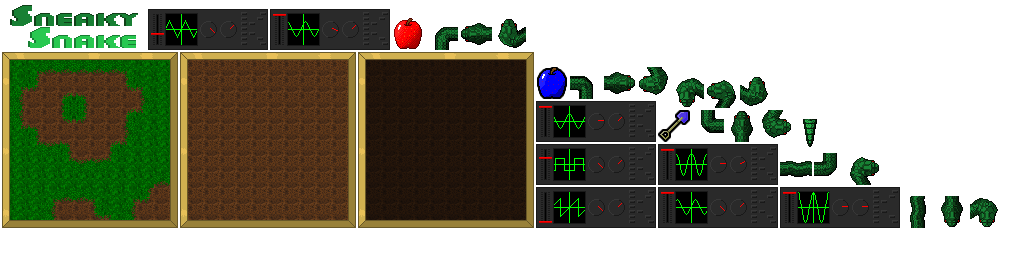
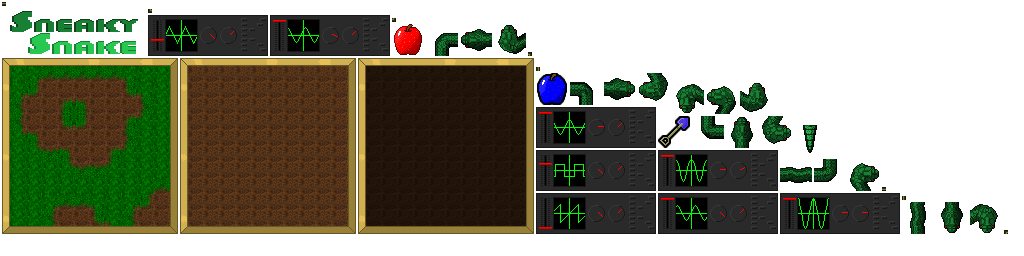
- Added Framing - Made Sky Blue - Changed Button Art - Changed Button Location

Changed region(s): [[0.0, 0.0, 1.0, 0.9375]]

diff --git a/core/src/com/tweekgames/sneakysnake/screens/GameScreen.java b/core/src/com/tweekgames/sneakysnake/screens/GameScreen.java
@@ -51,12 +51,14 @@ public class GameScreen extends AbstractGameScreen {
     private final float DEBUG_REBUILD_INTERVAL = 5.0f;
     private boolean debugEnabled = false;
     private float debugRebuildStage;
+    private float boardWidth;
 
     private boolean paused;
 
     public GameScreen(Game game) {
         super(game);
         AudioManager.instance.play(Assets.instance.music.ssMusicIntro,true);
+        boardWidth = 704.0f;
     }
 
 
@@ -72,7 +74,7 @@ public class GameScreen extends AbstractGameScreen {
         }
         // Sets the clear screen color to: Black
         //Gdx.gl.glClearColor(0/255.0f, 96/250.0f, 184/255.0f, 1.0f);
-        Gdx.gl.glClearColor(0/255.0f, 0/255.0f, 0/255.0f, 1.0f);
+        Gdx.gl.glClearColor(0/255.0f,138/255.0f, 207/255.0f, 1.0f);
         // Clears the screen
         Gdx.gl.glClear(GL20.GL_COLOR_BUFFER_BIT);
         // Render game world to screen
@@ -83,6 +85,17 @@ public class GameScreen extends AbstractGameScreen {
         multiplier.setText("x" + String.format("%.1f",worldController.world.multiplier));
         //fpsLab.setText("FPS: " + Gdx.graphics.getFramesPerSecond());
         labShovelCounter.setText("x" + worldController.world.snake.shovels);
+
+        stage.getBatch().begin();
+        stage.getBatch().draw(Assets.instance.frame.frameUL, 0, Gdx.graphics.getHeight()-8, 8, 8);
+        stage.getBatch().draw(Assets.instance.frame.frameUR, Gdx.graphics.getWidth()-8, Gdx.graphics.getHeight()-8, 8, 8);
+        stage.getBatch().draw(Assets.instance.frame.frameBL, 0, 0, 8, 8);
+        stage.getBatch().draw(Assets.instance.frame.frameBR, Gdx.graphics.getWidth()-8, 0, 8, 8);
+        stage.getBatch().draw(Assets.instance.frame.frameU, 8, Gdx.graphics.getHeight()-8, Gdx.graphics.getWidth()-16, 8);
+        stage.getBatch().draw(Assets.instance.frame.frameL, 0, 8, 8, Gdx.graphics.getHeight()-16);
+        stage.getBatch().draw(Assets.instance.frame.frameB, 8, 0, Gdx.graphics.getWidth()-16, 8);
+        stage.getBatch().draw(Assets.instance.frame.frameR, Gdx.graphics.getWidth()-8, 8, 8, Gdx.graphics.getHeight()-16);
+        stage.getBatch().end();
 
         stage.draw();
     }
@@ -124,7 +137,7 @@ public class GameScreen extends AbstractGameScreen {
 
     private Table buildDigDownButton() {
         Table layer = new Table();
-        layer.align(Align.bottomRight).pad(10.0f);
+        layer.align(Align.bottomRight).pad(Gdx.graphics.getWidth()* 0.01f);
         btnDigDown = new Button(skinUI, "digDown");
         btnDigDown.addListener(new ChangeListener() {
             @Override
@@ -141,7 +154,7 @@ public class GameScreen extends AbstractGameScreen {
 
     private Table buildDigUpButton() {
         Table layer = new Table();
-        layer.align(Align.bottomLeft).pad(10.0f);
+        layer.align(Align.bottomLeft).pad(Gdx.graphics.getWidth()* 0.01f);
         btnDigUp = new Button(skinUI, "digUp");
         btnDigUp.addListener(new ChangeListener() {
             @Override
@@ -176,9 +189,9 @@ public class GameScreen extends AbstractGameScreen {
     private Table buildLeftButton() {
         Table layer = new Table();
         layer.align(Align.center).align(Align.left);
-        layer.pad(Gdx.graphics.getWidth()* 0.01f);
         // + Buttons
         btnLeft = new Button(skinUI, "left");
+        layer.pad(((Gdx.graphics.getWidth() - boardWidth)/2-btnLeft.getWidth())/2);
         layer.add(btnLeft);
         btnLeft.addListener(new ChangeListener() {
             @Override
@@ -195,9 +208,9 @@ public class GameScreen extends AbstractGameScreen {
     private Table buildRightButton() {
         Table layer = new Table();
         layer.align(Align.center).align(Align.right);
-        layer.pad(Gdx.graphics.getWidth()* 0.01f);
         // + Buttons
         btnRight = new Button(skinUI, "right");
+        layer.pad(((Gdx.graphics.getWidth() - boardWidth)/2-btnRight.getWidth())/2);
         layer.add(btnRight);
         btnRight.addListener(new ChangeListener() {
             @Override

diff --git a/core/src/com/tweekgames/sneakysnake/game/Assets.java b/core/src/com/tweekgames/sneakysnake/game/Assets.java
@@ -53,6 +53,7 @@ public class Assets implements Disposable, AssetErrorListener{
     public AssetSplash splash;
 
     public AssetBackground background;
+    public AssetFrame frame;
     public AssetSnake snake;
     public AssetFruit fruit;
     public AssetShovel shovel;
@@ -92,6 +93,7 @@ public class Assets implements Disposable, AssetErrorListener{
         // create game resource objects
         splash = new AssetSplash(atlas);
         background = new AssetBackground(atlas);
+        frame = new AssetFrame(atlas);
         snake = new AssetSnake(atlas);
         fruit = new AssetFruit(atlas);
         shovel = new AssetShovel(atlas);
@@ -153,6 +155,29 @@ public class Assets implements Disposable, AssetErrorListener{
 
         public AssetShovel (TextureAtlas atlas) {
             shovel = atlas.findRegion("shovel");
+        }
+    }
+
+    public class AssetFrame {
+        public final AtlasRegion frameUL;
+        public final AtlasRegion frameUR;
+        public final AtlasRegion frameBL;
+        public final AtlasRegion frameBR;
+        public final AtlasRegion frameL;
+        public final AtlasRegion frameU;
+        public final AtlasRegion frameR;
+        public final AtlasRegion frameB;
+
+        public AssetFrame (TextureAtlas atlas)
+        {
+            frameUL = atlas.findRegion("frame_ul");
+            frameUR = atlas.findRegion("frame_ur");
+            frameBL = atlas.findRegion("frame_bl");
+            frameBR = atlas.findRegion("frame_br");
+            frameU = atlas.findRegion("frame_u");
+            frameL = atlas.findRegion("frame_l");
+            frameB = atlas.findRegion("frame_b");
+            frameR = atlas.findRegion("frame_r");
         }
     }
 

diff --git a/desktop/src/com/tweekgames/sneakysnake/desktop/DesktopLauncher.java b/desktop/src/com/tweekgames/sneakysnake/desktop/DesktopLauncher.java
@@ -28,17 +28,19 @@ public class DesktopLauncher {
         //config.width = 1280;
         //config.height = 768;
 
-        config.width = 1136;
-        config.height = 640;
+        //config.width = 1136;
+        //config.height = 640;
 
         //config.width = 960;
         //config.height = 640;
 
+
+        //  0.5625   16/9
+        config.width = 1280;
+        config.height = 720;
+
         //config.width = 1920;
         //config.height = 1080;
-
-        //config.width = 1280;
-        //config.height = 720;
 
 		new LwjglApplication(new SneakySnakeGame(new ActionResolverDesktop()), config);
 	}
